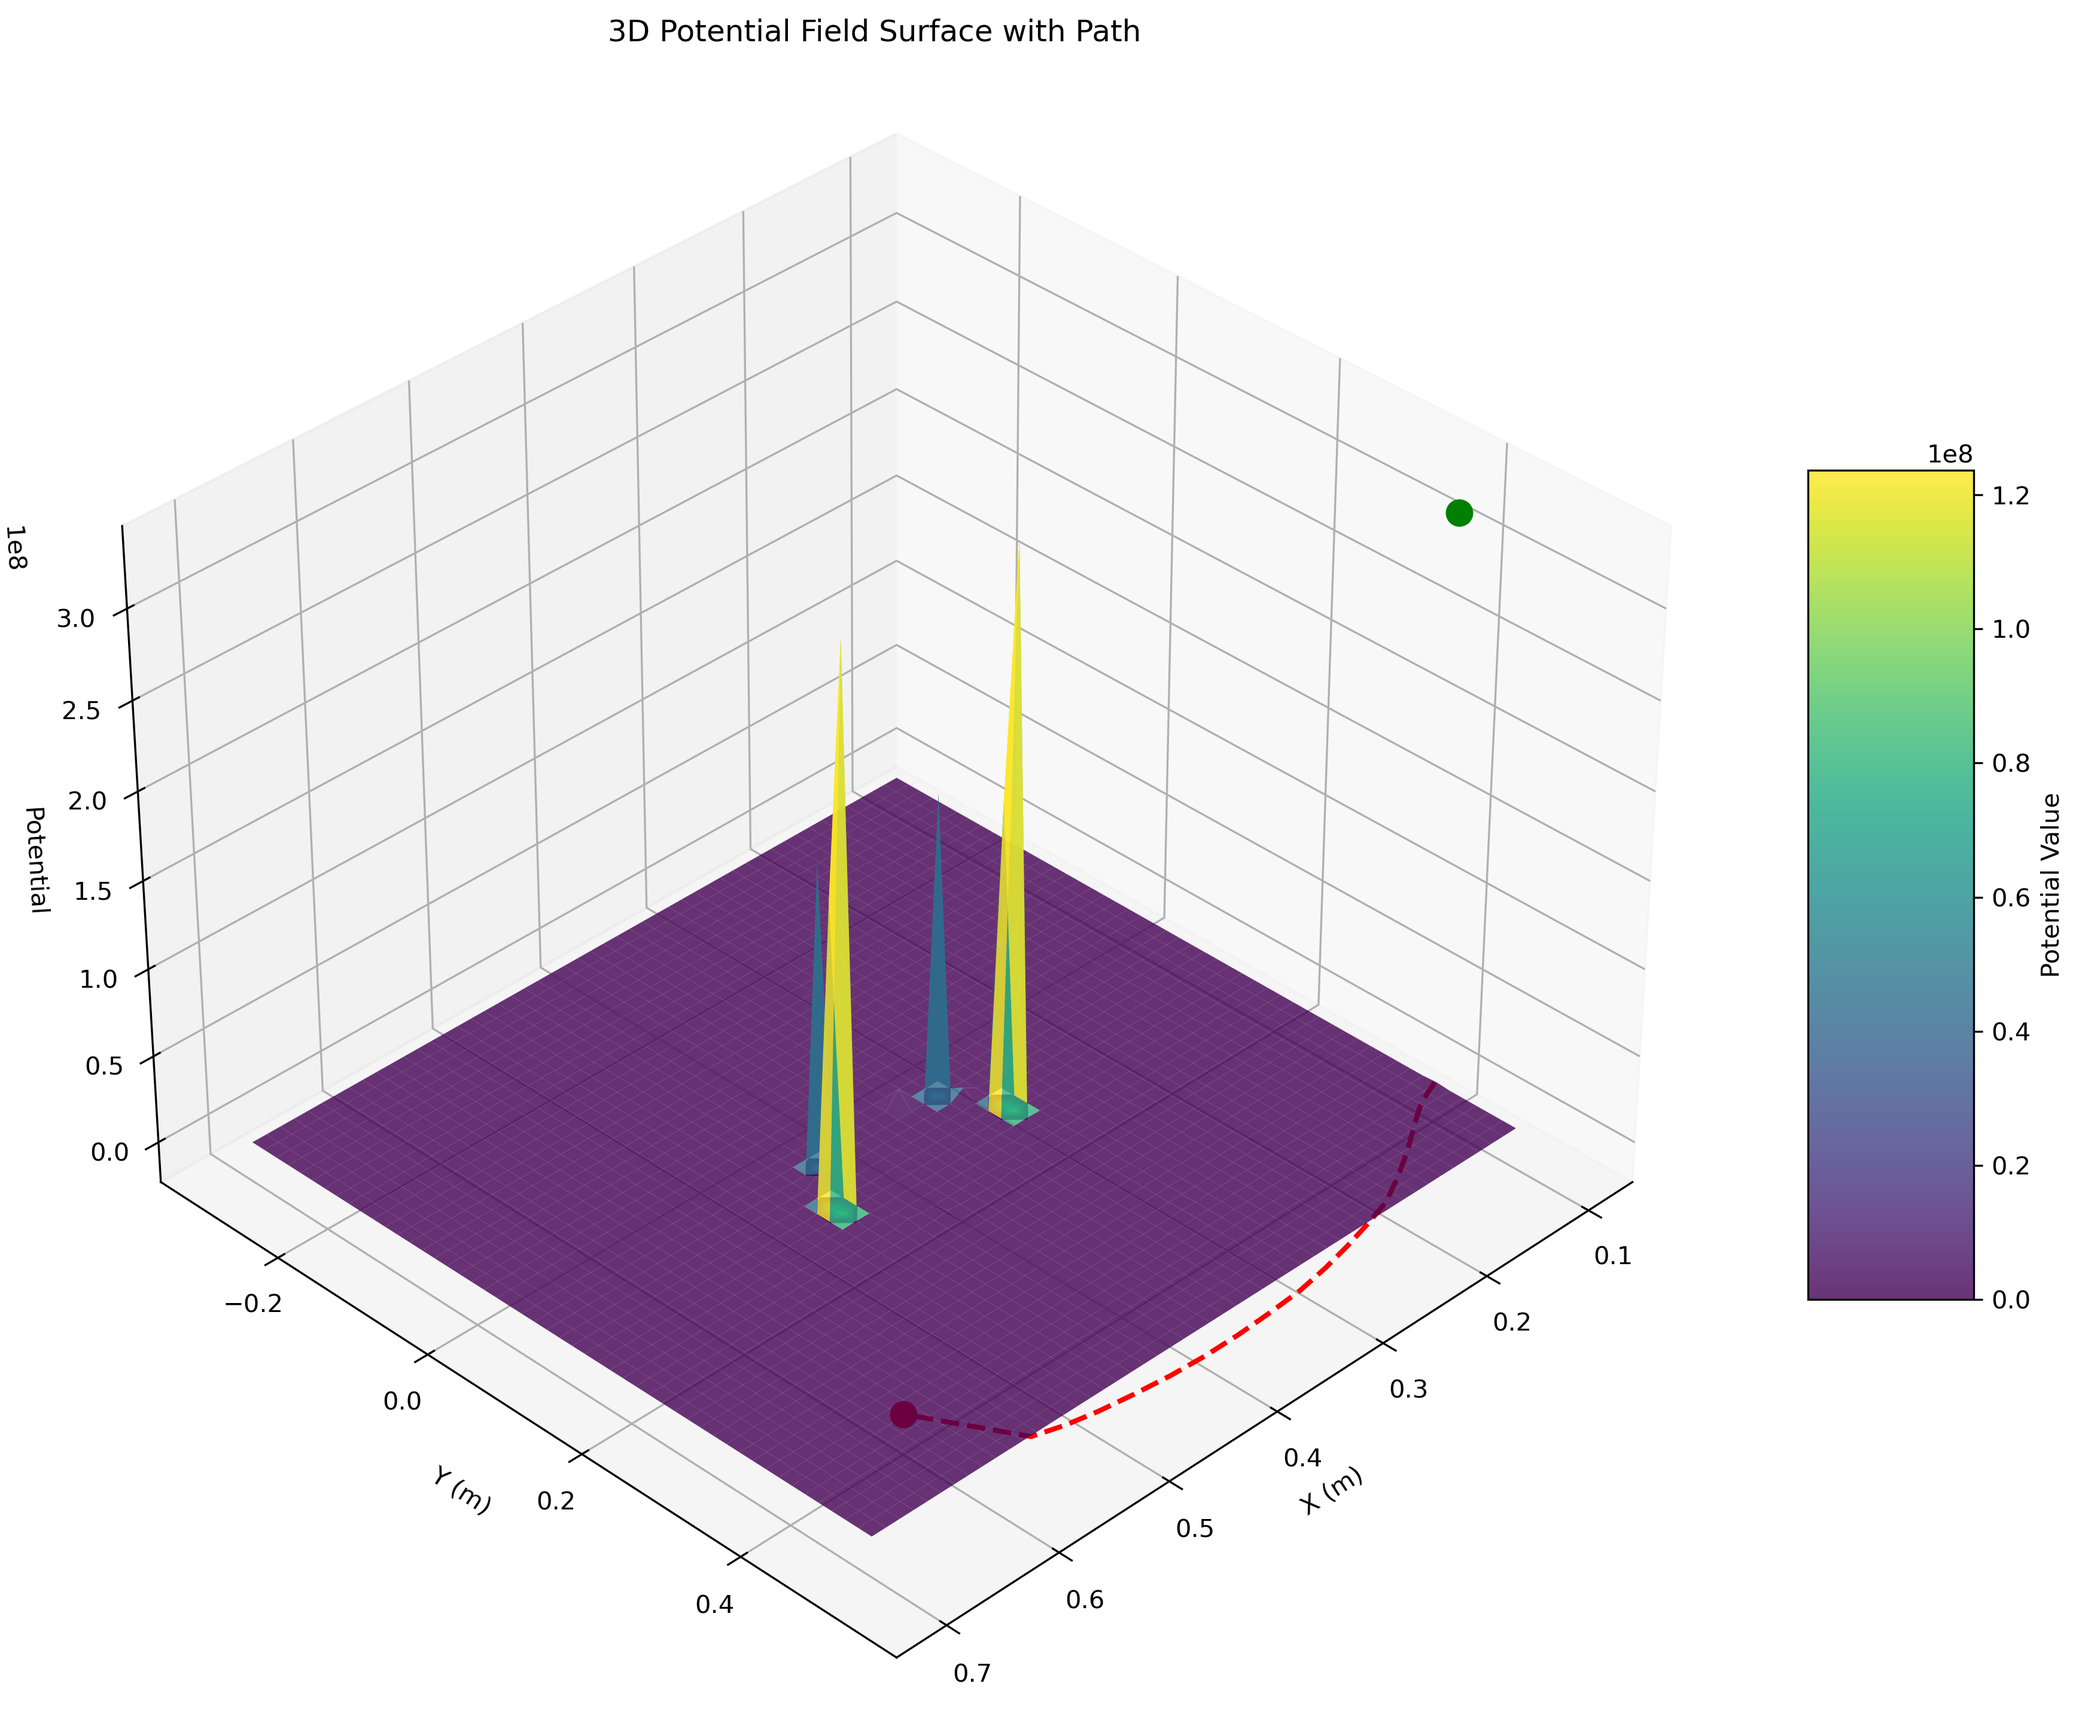
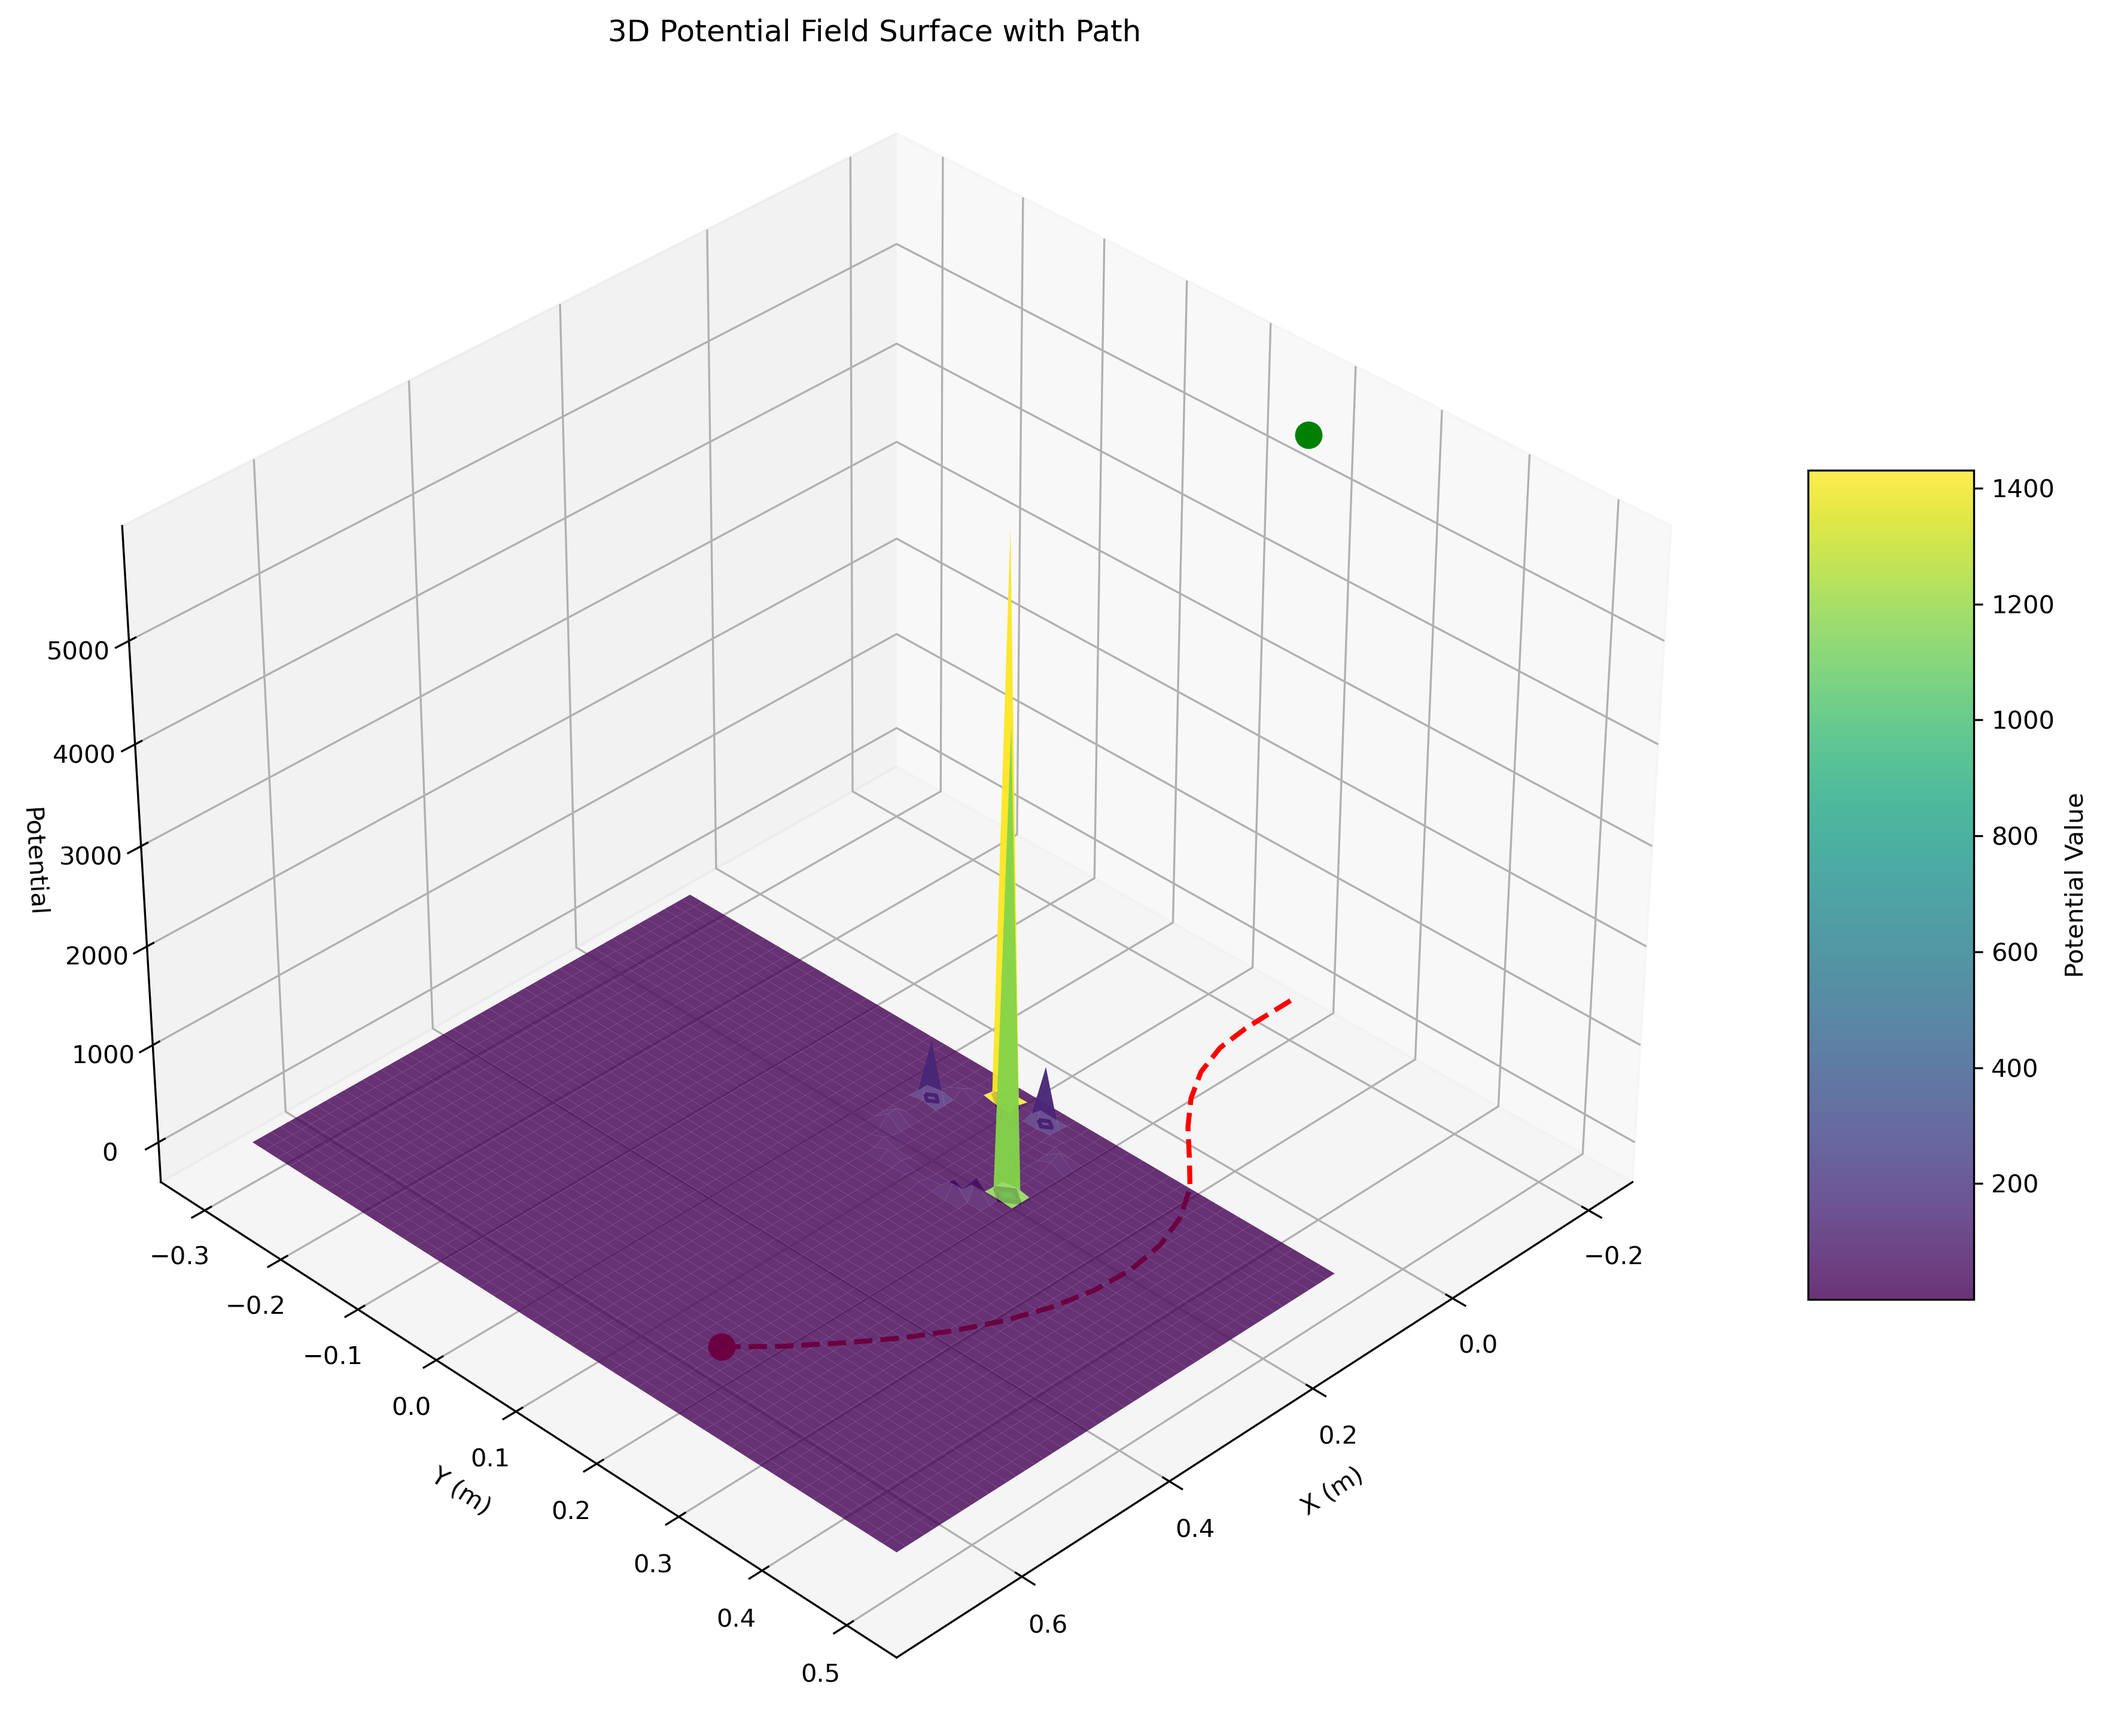
apf_v.1.1

diff --git a/panda_mujoco_control/panda_mujoco_control/mujoco_bridge.py b/panda_mujoco_control/panda_mujoco_control/mujoco_bridge.py
@@ -257,21 +257,10 @@ class MujocoROS2Bridge(Node):
         
         try:
             # Set start and end points
-            start_pos = np.array([0.1, 0.4, 0.4])
-            goal_pos = np.array([0.6, 0.4, 0.4])
+            start_pos = np.array([-0.2, 0.2, 0.4])
+            goal_pos = np.array([0.6, 0.2, 0.4])
             
-            # Modify obstacle configuration
-            self.planner.obstacles = [
-                (np.array([0.4, 0.15, 0.4]), 0.08),  # Place obstacles in the middle of the path
-            ]
-            
-            # Adjust APF parameters to enhance obstacle avoidance effect
-            self.planner.k_att = 1.0    
-            self.planner.k_rep = 5.0    
-            self.planner.rho_0 = 0.3    
-            self.planner.step_size = 0.01 
-            
-            
+
             
             #Plan path
             path = self.planner.plan_trajectory(start_pos, goal_pos)

diff --git a/panda_mujoco_control/panda_mujoco_control/apf_planner.py b/panda_mujoco_control/panda_mujoco_control/apf_planner.py
@@ -10,7 +10,7 @@ class ImprovedAPFPlanner:
         
         #APF parameter
         self.k_att = 1.0    # Attraction coefficient
-        self.k_rep = 0.3    # Repulsion coefficient
+        self.k_rep = 0.001    # Repulsion coefficient
         self.rho_0 = 0.3    # Repulsive force range of influence
         self.step_size = 0.01  # step
         self.max_iterations = 1000
@@ -26,7 +26,7 @@ class ImprovedAPFPlanner:
         
         # Obstacle configuration
         self.obstacles = [
-            (np.array([0.4, 0.4, 0.4]), 0.08),
+            (np.array([0.2, 0.15, 0.4]), 0.08),
         ]
         
         # Initialize visual elements

diff --git a/panda_mujoco_control/panda_mujoco_control/task_executor.py b/panda_mujoco_control/panda_mujoco_control/task_executor.py
@@ -147,7 +147,7 @@ class TaskExecutor(Node):
         except Exception as e:
             self.get_logger().error(f'Planning failed: {str(e)}')
             return False
-    '''
+    
     async def execute_picking_task(self):
         """执行抓取任务"""
         try:
@@ -191,7 +191,7 @@ class TaskExecutor(Node):
         except Exception as e:
             self.get_logger().error(f'执行任务时出错: {str(e)}')
             return False
-    '''
+    
 
 def main(args=None):
     rclpy.init(args=args)
